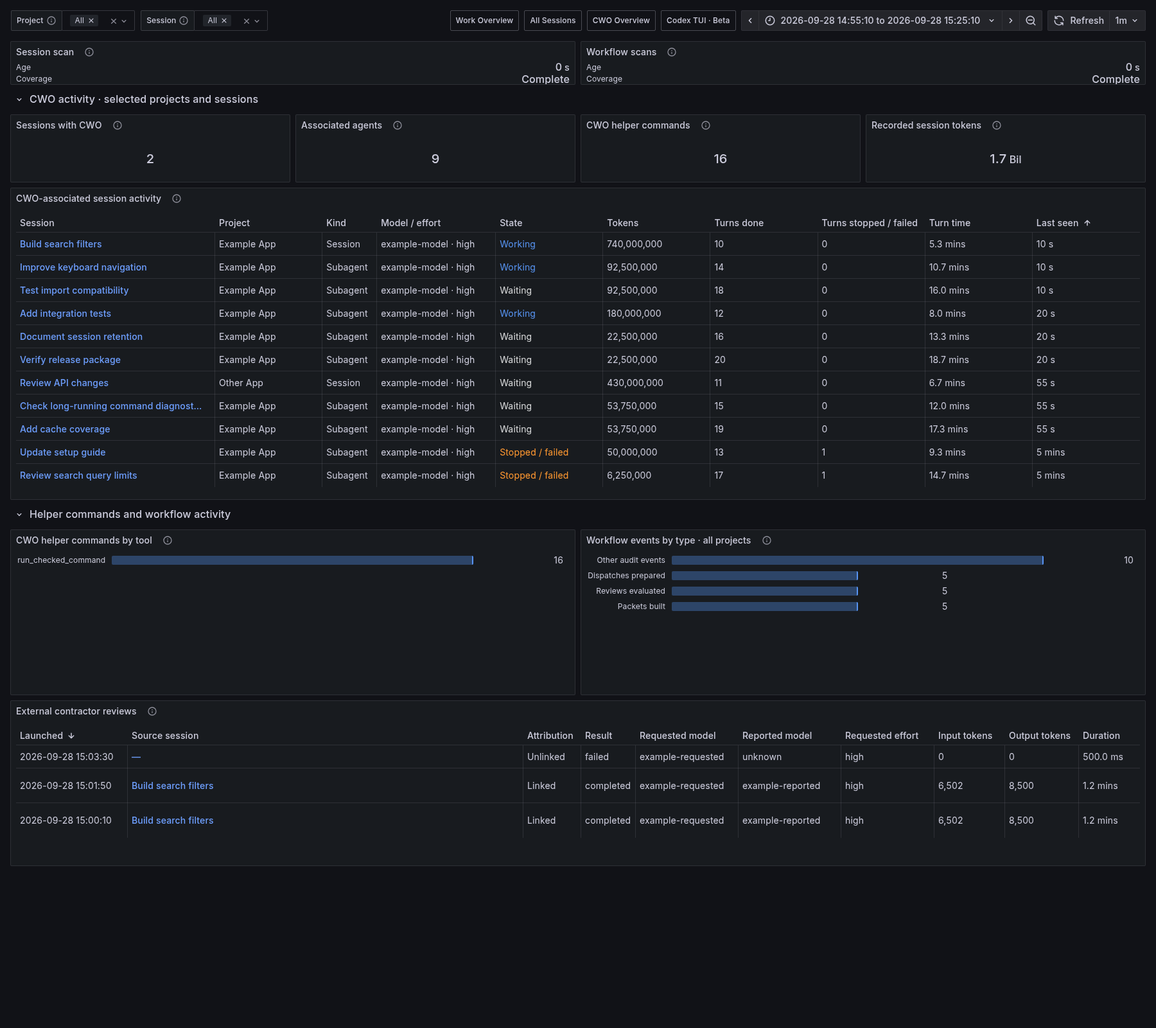
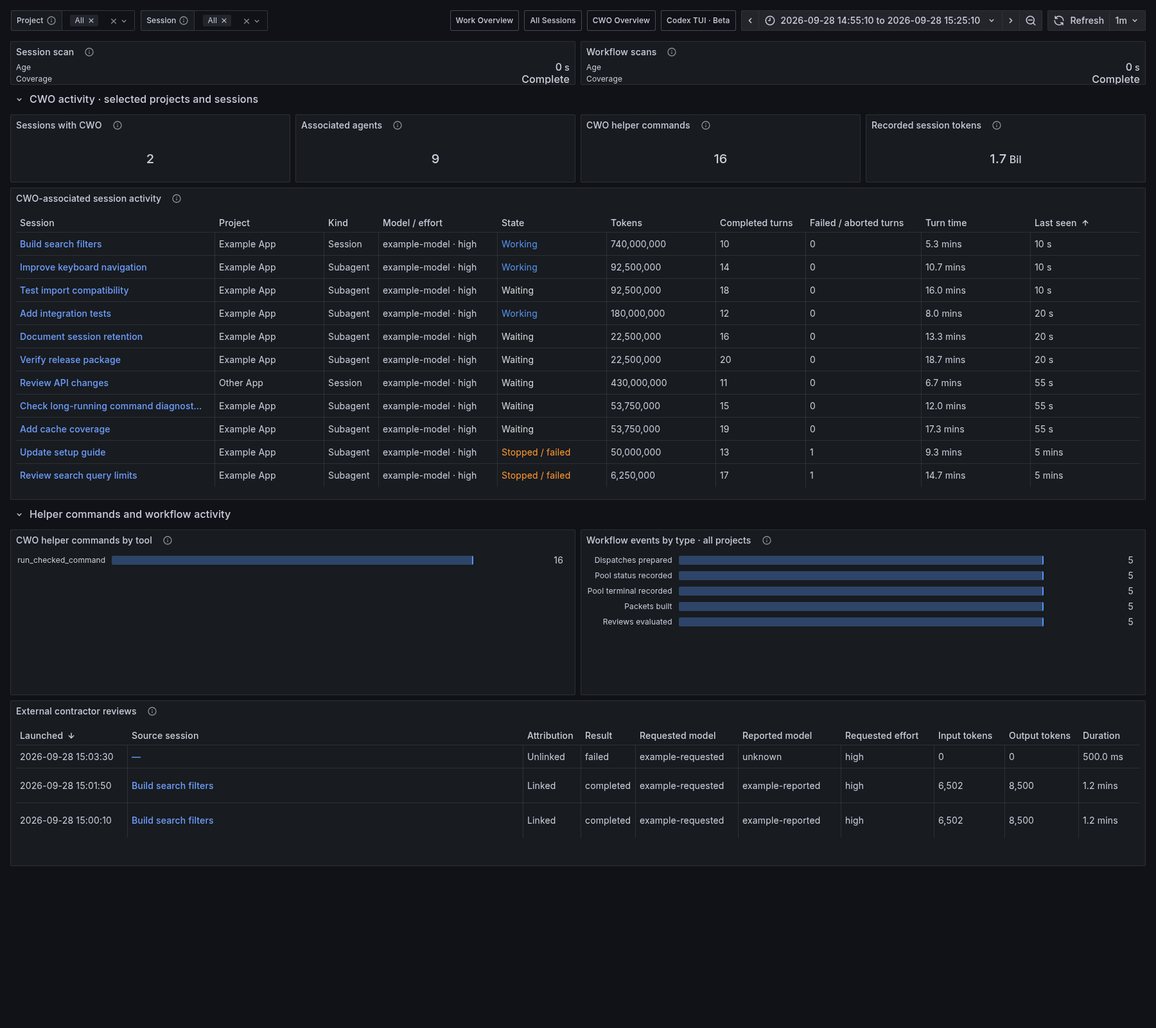
fix: standardize dashboard labels and docs

diff --git a/tests/test_codex_sessions_dashboard.py b/tests/test_codex_sessions_dashboard.py
@@ -188,7 +188,7 @@ class CodexSessionsDashboardTests(unittest.TestCase):
 
     def test_observed_history_scope_is_in_descriptions(self):
         for title in ("Recorded session tokens", "Sessions and latest activity",
-                      "Recorded tokens by session", "Observed turn time by session"):
+                      "Recorded tokens by session", "Turn time by session"):
             self.assertIn("available", self.panel(title)["description"].lower())
             self.assertIn("reading-values/", self.panel(title)["description"])
         self.assertIn("not tokens spent within the selected range", self.panel("Recorded session tokens")["description"])
@@ -226,7 +226,7 @@ class CodexSessionsDashboardTests(unittest.TestCase):
         table = self.panel("Sessions and latest activity")
         main_names = set(table["transformations"][2]["options"]["renameByName"].values())
         self.assertTrue({"Usage source", "Runtime reported"}.isdisjoint(main_names))
-        self.assertTrue({"Completed", "Stopped", "Turn time", "Tokens"}.issubset(main_names))
+        self.assertTrue({"Completed turns", "Failed / aborted turns", "Turn time", "Tokens"}.issubset(main_names))
         self.assertTrue({"D", "J"}.isdisjoint(t["refId"] for t in table["targets"]))
         diagnostics = self.panel("Session usage diagnostics")
         self.assertGreater(diagnostics["gridPos"]["y"], self.panel("Diagnostics")["gridPos"]["y"])
@@ -245,6 +245,24 @@ class CodexSessionsDashboardTests(unittest.TestCase):
             self.assertIn("<= $__to / 1000", target["expr"])
         self.assertIn("not added to recorded tokens", diagnostics["description"])
 
+    def test_session_table_turn_headers_fit_existing_width_budget(self) -> None:
+        table = self.panel("Sessions and latest activity")
+        rename = table["transformations"][2]["options"]["renameByName"]
+        labels = set(rename.values())
+        self.assertTrue({"Completed turns", "Failed / aborted turns", "Turn time"} <= labels)
+        explicit_widths = {
+            override["matcher"]["options"]: next(
+                prop["value"] for prop in override["properties"] if prop["id"] == "custom.width"
+            )
+            for override in table["fieldConfig"]["overrides"]
+            if override["matcher"].get("id") == "byName"
+            and any(prop["id"] == "custom.width" for prop in override["properties"])
+        }
+        self.assertLessEqual(
+            sum(explicit_widths.values()) + 70 * (len(labels) - len(explicit_widths)),
+            1700,
+        )
+
     def test_inventory_leads_and_detail_rows_are_collapsed(self):
         table = self.panel("Sessions and latest activity")
         self.assertEqual(table["gridPos"], dict(x=0, y=2, w=24, h=10))
@@ -254,7 +272,7 @@ class CodexSessionsDashboardTests(unittest.TestCase):
 
 
     def test_comparison_bars_receive_table_fields_for_human_name_mapping(self) -> None:
-        for title in ("Recorded tokens by session", "Observed turn time by session"):
+        for title in ("Recorded tokens by session", "Turn time by session"):
             panel = self.panel(title)
             self.assertTrue(all(target["format"] == "table" for target in panel["targets"]))
             self.assertEqual(

diff --git a/tests/test_cwo_current_dashboard.py b/tests/test_cwo_current_dashboard.py
@@ -60,13 +60,29 @@ class CurrentCwoDashboardTests(unittest.TestCase):
             self.assertIn("$__to / 1000", queries[ref])
             self.assertNotIn("vector(0)", queries[ref])
         titles = set(table["transformations"][-1]["options"]["renameByName"].values())
-        self.assertTrue({"Turns done", "Turns stopped / failed", "Turn time", "Tokens", "Model / effort"} <= titles)
+        self.assertTrue({"Completed turns", "Failed / aborted turns", "Turn time", "Tokens", "Model / effort"} <= titles)
         last_seen = queries["D"]
         self.assertIn("$__to / 1000 -", last_seen)
         self.assertIn("cwo_codex_session_last_event_timestamp_seconds", last_seen)
         self.assertNotIn("1000 *", last_seen)
         widths = [v["value"] for o in table["fieldConfig"]["overrides"] for v in o["properties"] if v["id"] == "custom.width"]
         self.assertLessEqual(sum(widths) + 70 * (len(titles) - len(widths)), 1700)
+
+    def test_turn_labels_are_consistent_across_session_tables(self):
+        dashboards = (
+            ("codex-work-overview-beta.json", 42),
+            ("codex-all-sessions.json", 110),
+            ("cwo-overview.json", 305),
+        )
+        expected = {"Completed turns", "Failed / aborted turns", "Turn time"}
+        forbidden = {"Turns done", "Turns stopped / failed", "Stopped / failed turns", "Recorded turn time"}
+        for filename, panel_id in dashboards:
+            document = json.loads((ROOT / "examples/observability" / filename).read_text())
+            panel = {item["id"]: item for item in walk_panels(document["panels"])}[panel_id]
+            names = set(panel["transformations"][-1]["options"]["renameByName"].values())
+            self.assertTrue(expected <= names, filename)
+            self.assertTrue(forbidden.isdisjoint(names), filename)
+            self.assertNotIn("Observed turn time", json.dumps(document), filename)
 
     def test_renderer_keeps_current_template_free_of_legacy_filters(self):
         rendered = render_dashboard(self.dashboard, {"projects": {}, "dispatches": {}}, datasource_uid="example")

diff --git a/tests/test_documentation.py b/tests/test_documentation.py
@@ -174,12 +174,12 @@ class DocumentationTests(unittest.TestCase):
             "prompt_coached", "review_cli_started", "review_cli_finished",
             "astra_adjudication_received",
         )
+        public_docs = [doc for doc in DOCS if doc != ROOT / "AGENTS.md"]
+        public_docs.append(ROOT / "website/docs/home.mdx")
         for event in custom_events:
-            self.assertIn(event, adapter)
-            for doc in DOCS:
-                if doc != ROOT / "references/integrations/custom-review-adapter.md":
+            for doc in public_docs:
+                with self.subTest(event=event, doc=doc):
                     self.assertNotIn(event, doc.read_text(), str(doc))
-        self.assertIn("Other audit events", adapter)
         for doc in DOCS:
             with self.subTest(doc=doc):
                 text = doc.read_text()

diff --git a/tests/test_codex_tui_dashboard.py b/tests/test_codex_tui_dashboard.py
@@ -32,7 +32,7 @@ class TuiDashboardTests(unittest.TestCase):
         self.assertEqual(dashboard["time"], {"from": "now-24h", "to": "now"})
         panels = sorted(dashboard["panels"], key=lambda panel: panel["id"])
         self.assertEqual([p["id"] for p in panels], [1, 2, 3, 4, 5, 6, 7])
-        self.assertEqual([p["title"].split(" · ")[0] for p in panels], ["1", "2", "3", "4", "5", "6", "2"])
+        self.assertEqual([p["title"].split(" · ")[0] for p in panels], ["1", "2a", "3", "4", "5", "6", "2b"])
         expected_positions = {
             1: (0, 0, 12, 8), 2: (12, 0, 6, 8), 7: (18, 0, 6, 8),
             3: (0, 8, 12, 8), 4: (12, 8, 12, 8),

diff --git a/references/dashboards/cwo.md b/references/dashboards/cwo.md
@@ -10,7 +10,7 @@ description: View CWO sessions, agents, usage and workflow activity.
 
 *Synthetic data in the current dashboard layout. Counts depend on enabled sources and the selected time range.*
 
-CWO Overview shows Codex sessions and subagents that use CWO: their tokens, model/effort, turn outcomes and recorded turn time. Workflow audits and optional custom review-adapter results provide additional detail. Start with `--cwo-sessions` in [CWO Integration](../integrations/cwo.md#collect-cwo-sessions).
+CWO Overview shows Codex sessions and subagents that use CWO: their tokens, model/effort, completed turns, failed / aborted turns and turn time. Workflow audits and optional custom review-adapter results provide additional detail. Start with `--cwo-sessions` in [CWO Integration](../integrations/cwo.md#collect-cwo-sessions).
 
 ## Import
 
@@ -37,9 +37,9 @@ The main overview shows CWO-associated sessions, native agents, recorded session
 
 Use **Project** and **Session** to filter the headline counts, session table, helper commands and linked contractor reviews. Both allow multiple selections; **All** clears that filter. A Session selection matches those individual sessions or subagents. Project and Session selections apply together.
 
-The rendered dropdowns use names from the exported session snapshot. Collection health and **Workflow events by type · all projects** remain profile-wide because their records have no project/session identity. Reviews without a proven source session appear only when both dropdowns are **All**.
+The rendered dropdowns use names from the exported session snapshot. Collection health and **Workflow events by type · all projects** remain profile-wide because their records have no project/session identity. Reviews with Unlinked, Pending or Ambiguous attribution appear when both dropdowns are **All**.
 
-**Recorded session tokens** covers the selected sessions' whole recorded history, including work outside CWO. It is separate from tokens consumed during the selected hour. Missing values display a dash; known empty counts display zero.
+**Recorded session tokens** covers the selected sessions' whole recorded history, including work outside CWO. It is separate from tokens consumed during the selected range. Missing values display a dash; known empty counts display zero.
 
 The top strip reports session collection and workflow-source health. **Partial** means the configured sources have incomplete coverage. The default range is 30 days and refresh is one minute; choose a shorter range, such as **Last 1 hour**, to focus recent activity.
 
@@ -55,7 +55,7 @@ This section follows the selected projects and sessions. Association comes from 
 | Model / effort | Latest selected Codex settings. |
 | State, Last seen | Latest recorded activity and its age at the selected range end. |
 | Tokens | Recorded tokens for the whole session. |
-| Turns done, Turns stopped / failed | Recorded completed and failed or aborted turns across the session. A completed turn can be one step in a larger assignment. |
+| Completed turns, Failed / aborted turns | Recorded completed and failed or aborted turns across the session. A completed turn can be one step in a larger assignment. |
 | Turn time | Sum of reported turn durations. Waiting between turns and other unreported time are excluded. |
 
 The time picker selects sessions active in that range. Their token and turn totals cover recorded session history. A subagent session has its own measurements; a session reused for several assignments combines their measurements.
@@ -66,6 +66,6 @@ The time picker selects sessions active in that range. Their token and turn tota
 
 **Workflow events by type** counts events whose original timestamps fall inside the selected range, across configured audit logs. It can be empty while session and helper activity is present: only operations that write audit events appear in that chart.
 
-**External contractor reviews** shows metadata from collected custom review attempts: requested and reported model, requested effort, outcome, token usage and duration. Rows can remain unlinked from a Codex session. Completed and failed attempts appear when their launch dates fall within the selected range. With [session attribution](../integrations/custom-review-adapter.md#link-reviews-to-codex-sessions) enabled, **Source session** links to a proven launching session. Reviews without a proven source session appear when Project and Session are both **All**.
+**External contractor reviews** shows metadata from collected custom review attempts: requested and reported model, requested effort, outcome, token usage and duration. Rows can remain unlinked from a Codex session. Completed and failed attempts appear when their launch dates fall within the selected range. With [session attribution](../integrations/custom-review-adapter.md#link-reviews-to-codex-sessions) enabled, **Source session** links to the launching session when attribution is **Linked**. Reviews with Unlinked, Pending or Ambiguous attribution appear when Project and Session are both **All**.
 
 [Retention and Limits](../reference/retention-and-limits.md) explains source history and exports. [Reading the Values](reading-values.md) explains token totals, partial coverage and missing values.

diff --git a/references/reference/metrics.md b/references/reference/metrics.md
@@ -70,8 +70,8 @@ Labels use opaque identities and bounded categories. Display names stay in rende
 | `cwo_codex_session_reported_tokens` | untyped | `project_id`, `session_id` | Separate legacy runtime token snapshot. |
 | `cwo_codex_session_response_count` | untyped | `project_id`, `session_id` | Deduplicated recorded response count. |
 | `cwo_codex_session_completed_turns` | untyped | `project_id`, `session_id` | Recorded completed turns. |
-| `cwo_codex_session_failed_turns` | untyped | `project_id`, `session_id` | Recorded failed turns. |
-| `cwo_codex_session_observed_turn_seconds` | untyped | `project_id`, `session_id` | Sum of reported completed-turn durations. |
+| `cwo_codex_session_failed_turns` | untyped | `project_id`, `session_id` | Recorded failed or aborted turns. |
+| `cwo_codex_session_observed_turn_seconds` | untyped | `project_id`, `session_id` | Sum of reported turn durations. |
 | `cwo_codex_session_usage_state` | untyped | `project_id`, `session_id` | Recorded-usage coverage code. |
 | `cwo_codex_session_usage_tokens` | untyped | `project_id`, `session_id`, `token_kind` | Deduplicated recorded tokens by category. |
 
@@ -153,9 +153,9 @@ These optional gauges come from configured CWO audit JSONL, independently of the
 | `cwo_audit_limit_reached` | gauge | None | A discovery, byte or event export limit was reached. |
 | `cwo_audit_exported_events` | gauge | None | Unique audit events currently exported within the retention window. |
 | `cwo_audit_skipped_records` | gauge | `reason` | Records omitted in the latest scan, by bounded reason. |
-| `cwo_audit_event_timestamp_seconds` | gauge | `event_id`, `event_type` | Source Unix timestamp of one unique CWO audit event; not a job or token count. |
+| `cwo_audit_event_timestamp_seconds` | gauge | `event_id`, `event_type` | Source Unix timestamp of one unique CWO audit event. |
 
-Skip reasons: `invalid_json`, `unsupported_record`, `invalid_hash`, `invalid_timestamp`, `future_timestamp`, `oversized_line`, `partial_line`. Unknown valid event types use `other`. The content hash supports consistency and deduplication, not proof that a job executed.
+Skip reasons: `invalid_json`, `unsupported_record`, `invalid_hash`, `invalid_timestamp`, `future_timestamp`, `oversized_line`, `partial_line`. Unknown valid event types use `other`. The content hash is verified for consistency and deduplication.
 
 Recognized event types in the `event_type` label:
 
@@ -170,6 +170,8 @@ Recognized event types in the `event_type` label:
 | `native_pool_terminal` | A native agent group reached a recorded terminal state. |
 
 Here, a native agent group is a set of Codex native subagents supervised together. These events describe the group-level report or state; they are not per-agent task totals.
+
+Audit events record logged activity only. They do not establish task completion, token usage, or worker capacity.
 
 ## CWO-Associated Sessions
 
@@ -206,5 +208,5 @@ Optional paired-artifact collection uses gauges. Review usage is separate from C
 | `cwo_review_started_timestamp_seconds` | gauge | `review_id`, `outcome`, `requested_model`, `reported_model`, `effort` | Recorded launch time of a CLI review with a collected result; not its finish time. |
 | `cwo_review_tokens` | gauge | `review_id`, `outcome`, `requested_model`, `reported_model`, `effort`, `kind` | CLI top-level usage by kind; thinking is a subset of output. Input excludes cache creation and reads. |
 | `cwo_review_duration_seconds` | gauge | `review_id`, `outcome`, `requested_model`, `reported_model`, `effort` | CLI-reported result duration; not time inferred from file timestamps. |
-| `cwo_review_session_info` | gauge | `review_id`, `project_id`, `session_id` | Value 1 links a review to its proven immediate launching Codex session. |
+| `cwo_review_session_info` | gauge | `review_id`, `project_id`, `session_id` | Value 1 identifies the launching Codex session for a Linked review. |
 | `cwo_review_attribution_state` | gauge | `review_id`, `state` | Value 1 for the review's current state: `linked`, `unlinked`, `pending` or `ambiguous`. |

diff --git a/references/dashboards/reading-values.md b/references/dashboards/reading-values.md
@@ -20,7 +20,7 @@ Token, response and turn totals cover each selected session's recorded history. 
 | --- | --- |
 | Chat / session / work | One Codex conversation and its stable session ID. Work Overview calls it Work; the TUI dashboard calls it a Chat. |
 | Response | A recorded model response. It is not the same as a user message or a completed turn. |
-| Turn | One run from a user request or continuation until Codex finishes or stops. A turn can produce several model responses. Aborted turns are included in the stopped / failed count. |
+| Turn | One run from a user request or continuation until Codex finishes or stops. A turn can produce several model responses. Aborted turns are included in **Failed / aborted turns**. |
 | Native agent / subagent | A separate Codex session started as an agent. It has its own session measurements. |
 | Helper command | A supported CWO command invocation recorded in a Codex command item. Failed invocations are still counted. |
 | Contractor review | A review attempt launched through a configured external review adapter. |
@@ -32,11 +32,13 @@ Token, response and turn totals cover each selected session's recorded history. 
 | --- | --- |
 | Token counts | Tokens reported by the available response records for the selected sessions. Total tokens combine input and output. Older sessions may lack records, so treat totals as minimums rather than a bill. |
 | Cached input / reasoning output | Parts of input / output respectively. Total tokens already include them. |
-| Observed turn time | Sum of reported completed-turn durations. Parallel agents can overlap. |
+| Completed turns | Recorded turns that finished without a reported error. |
+| Failed / aborted turns | Recorded turns that reported an error or were aborted. |
+| Turn time | Sum of reported turn durations, including failed or aborted turns when a duration is supplied. Parallel agents can overlap. |
 | Model / effort | The latest selected settings for that session. Historical usage can span other settings. |
 | Working | A turn is open and has had activity within two minutes. |
 | Waiting | The last turn finished and no new turn has started. |
-| Stopped / failed | The latest turn stopped, failed, or was aborted. Aborted turns are included in this state and in stopped / failed turn counts. |
+| Stopped / failed | The latest turn stopped, failed, or was aborted. This is a session state; failed and aborted turn counts are shown as **Failed / aborted turns**. |
 | No recent signal | A turn remains open but has had no recent activity. |
 
 Token summaries and comparison bars use compact values: **K = thousand, Mil = million, Bil = billion, Tri = trillion**. For example, `1.4 Bil` means 1.4 billion tokens and `7.2 Mil` means 7.2 million tokens. The token panels link here from their ⓘ descriptions.

diff --git a/references/integrations/cwo.md b/references/integrations/cwo.md
@@ -14,7 +14,7 @@ Add `--cwo-sessions` to your [session collector command](../getting-started.mdx)
 
 Import [CWO Overview](../dashboards/cwo.md). It shows sessions and agents active in the selected range, their recorded session usage, helper-command counts, and workflow activity when audit collection is enabled. Source gaps and pending scans are shown with the data. [Data Sources and Privacy](../reference/data-sources-and-privacy.md) describes what is read and excluded; [Retention and Limits](../reference/retention-and-limits.md) explains which history is visible.
 
-Association is session context, not token attribution: session totals include recorded history from before CWO association. Plain mentions of CWO, reading a guide, or generic agent activity do not establish association.
+Session totals include recorded history from before CWO association. Plain mentions of CWO, reading a guide, or generic agent activity do not establish association.
 
 ## Collect Workflow Activity
 
@@ -26,7 +26,7 @@ CWO writes its audit log by default to `<CWO installation>/.orchestration-audit/
 
 Append the option to the [session collector command](../getting-started.mdx). Repeat it for multiple CWO installations. For a custom `CWO_AUDIT_FILE`, pass its exact path to `--cwo-audit-file`. Use `--once` with the same options to check source availability, scan coverage, and exported event count.
 
-[CWO Overview](../dashboards/cwo.md) shows recorded workflow activity by event type. These records describe logged events; they do not prove job completion, token usage, or worker capacity. Traceonaut exports the newest 2,000 unique events from the last 30 days. Partial reads make displayed counts lower bounds. See [CWO audit retention](../reference/retention-and-limits.md#cwo-workflow-audits).
+[CWO Overview](../dashboards/cwo.md) shows recorded workflow activity by event type. Traceonaut exports the newest 2,000 unique events from the last 30 days. Partial reads make displayed counts lower bounds. See [CWO audit retention](../reference/retention-and-limits.md#cwo-workflow-audits).
 
 <a id="collect-external-contractor-reviews"></a>
 <a id="link-reviews-to-sessions"></a>

diff --git a/references/reference/data-sources-and-privacy.md b/references/reference/data-sources-and-privacy.md
@@ -13,7 +13,7 @@ The session collector reads `sessions/`, `archived_sessions/`, and selected meta
 | `session_meta` and the local index | Session identity, project, explicit names and agent relationships. |
 | `token_usage_record` | Response identity and token usage. |
 | Legacy `token_count` and index counters | Separate runtime-reported token snapshots. |
-| Turn events | State, completed/failed turns and supplied durations. |
+| Turn events | Session state, **Completed turns**, **Failed / aborted turns**, and reported turn durations. |
 | `item_completed` / `CommandExecution` | Completion time, exit outcome and reported duration. |
 | `item_completed` / `ContextCompaction` | Compaction completion time. |
 
@@ -37,4 +37,4 @@ With `--cwo-sessions`, Traceonaut adds supported CWO association signals to the 
 
 ## CWO CLI Review Artifacts
 
-The [optional custom review reader](../integrations/custom-review-adapter.md) reads paired launch receipts, Claude CLI results, and their audit file. Metrics contain hashed result identities, requested/reported model names, requested effort, outcome, source launch time, and numeric usage. Proven source links use existing Codex project and session IDs. Prompts, response text, account names, paths, and contractor session/result UUIDs stay out of metrics.
+The [optional custom review reader](../integrations/custom-review-adapter.md) reads paired launch receipts, Claude CLI results, and their audit file. Metrics contain hashed result identities, requested/reported model names, requested effort, outcome, source launch time, and numeric usage. Linked review rows use existing Codex project and session IDs. Prompts, response text, account names, paths, and contractor session/result UUIDs stay out of metrics.

diff --git a/references/dashboards/tui-beta.md b/references/dashboards/tui-beta.md
@@ -42,12 +42,13 @@ a 30-second refresh.
 
 | Section | Shows |
 | --- | --- |
-| Overview | Collection health, scan age, working/waiting chats, native agents and recorded tokens. |
-| Token usage | Recorded input and output token totals over time in separate charts. |
-| Responses by chat | The eight selected chats with the most recorded model responses. |
-| Commands | Recorded commands and failures in the selected interval, with coverage. |
-| Chat activity | Working and waiting chats over time. |
-| Chats | Chat name, state, model/effort and recorded tokens. Click a name to open Work Overview. |
+| 1 · Overview | Collection health, scan age, working/waiting chats, subagents and recorded tokens. |
+| 2a · Input tokens | Recorded input token totals over time. |
+| 2b · Output tokens | Recorded output token totals over time. |
+| 3 · Responses by chat | The eight selected chats with the most recorded model responses. |
+| 4 · Commands | Recorded commands and failures in the selected interval, with coverage. |
+| 5 · Chat activity | Working and waiting chats over time. |
+| 6 · Chats | Chat name, state, model/effort and recorded tokens. Click a name to open Work Overview. |
 
 Token and response totals cover recorded session history for selected chats.
 The time range selects activity; it does not turn those totals into interval

diff --git a/references/integrations/custom-review-adapter.md b/references/integrations/custom-review-adapter.md
@@ -44,15 +44,4 @@ Supported evidence includes completed direct Claude commands with matching resul
 
 All collected reviews remain visible, including failures and retries. Requested effort comes from the launch receipt; the result reports a model but does not attest to effort. Review usage stays separate from Codex session usage. Source commands are inspected without execution. Names and command text are not metric labels.
 
-## Custom Audit Event Types
-
-Some custom workflows may write these event names to their audit log:
-
-- `prompt_coached`
-- `review_cli_started`
-- `review_cli_finished`
-- `astra_adjudication_received`
-
-These names are custom-adapter context, not a standard CWO event contract. Traceonaut groups them as **Other audit events** in the standard workflow activity view. Their presence records a custom event only; it does not prove that work completed or establish token usage.
-
 For review retention, scan bounds, and source handling, see [Retention and Limits](../reference/retention-and-limits.md#cwo-cli-review-results) and [Limits and Internals](../reference/limits-and-internals.md#cwo-cli-review-artifacts).

diff --git a/references/reference/limits-and-internals.md b/references/reference/limits-and-internals.md
@@ -28,7 +28,7 @@ Session retention uses last observed activity, then creation time. Unknown activ
 
 ## CWO Workflow Audit Inputs
 
-Audit records must be newline-terminated JSON objects with an event type, event hash, and valid source timestamp. Duplicate JSON keys and non-finite values are rejected. Content hashes support consistency checks and deduplication; they do not prove that work ran. Unknown valid event types are exported as `other`.
+Audit records must be newline-terminated JSON objects with an event type, event hash, and valid source timestamp. Duplicate JSON keys and non-finite values are rejected. Content hashes are verified and used to deduplicate records. Unknown valid event types are exported as `other`.
 
 Each scan reads at most 256 files and 32 MiB, visits 8,192 directory entries, and descends 16 levels under each configured directory. Lines above 256 KiB, malformed records, and incomplete final lines are skipped; incomplete lines can be retried on the next scan. Configured source paths must be owned regular files/directories without symlink traversal.
 
